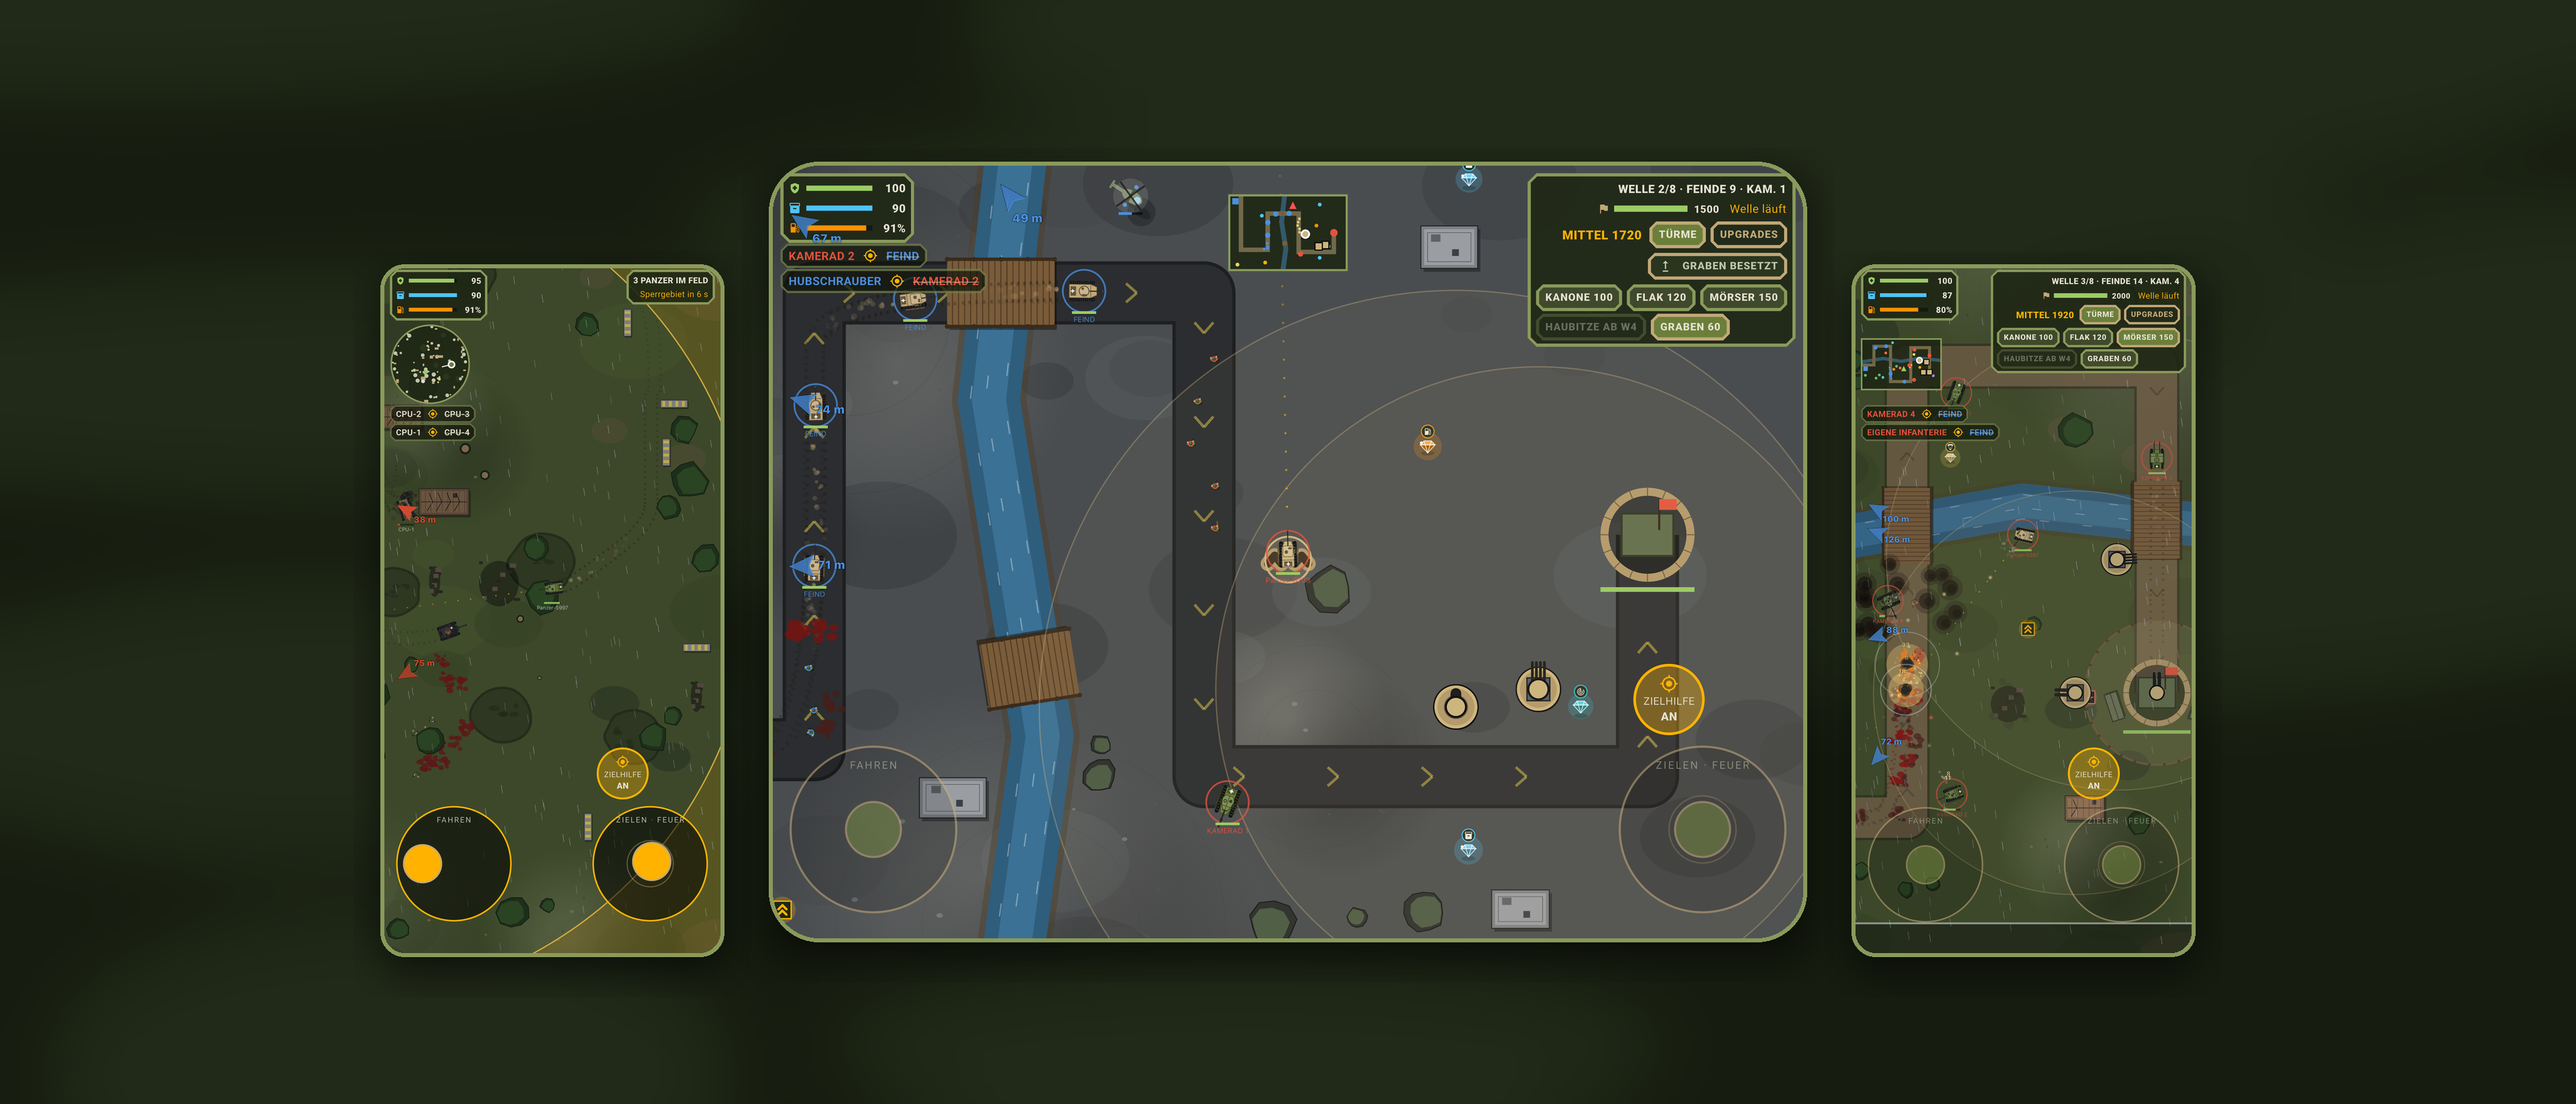
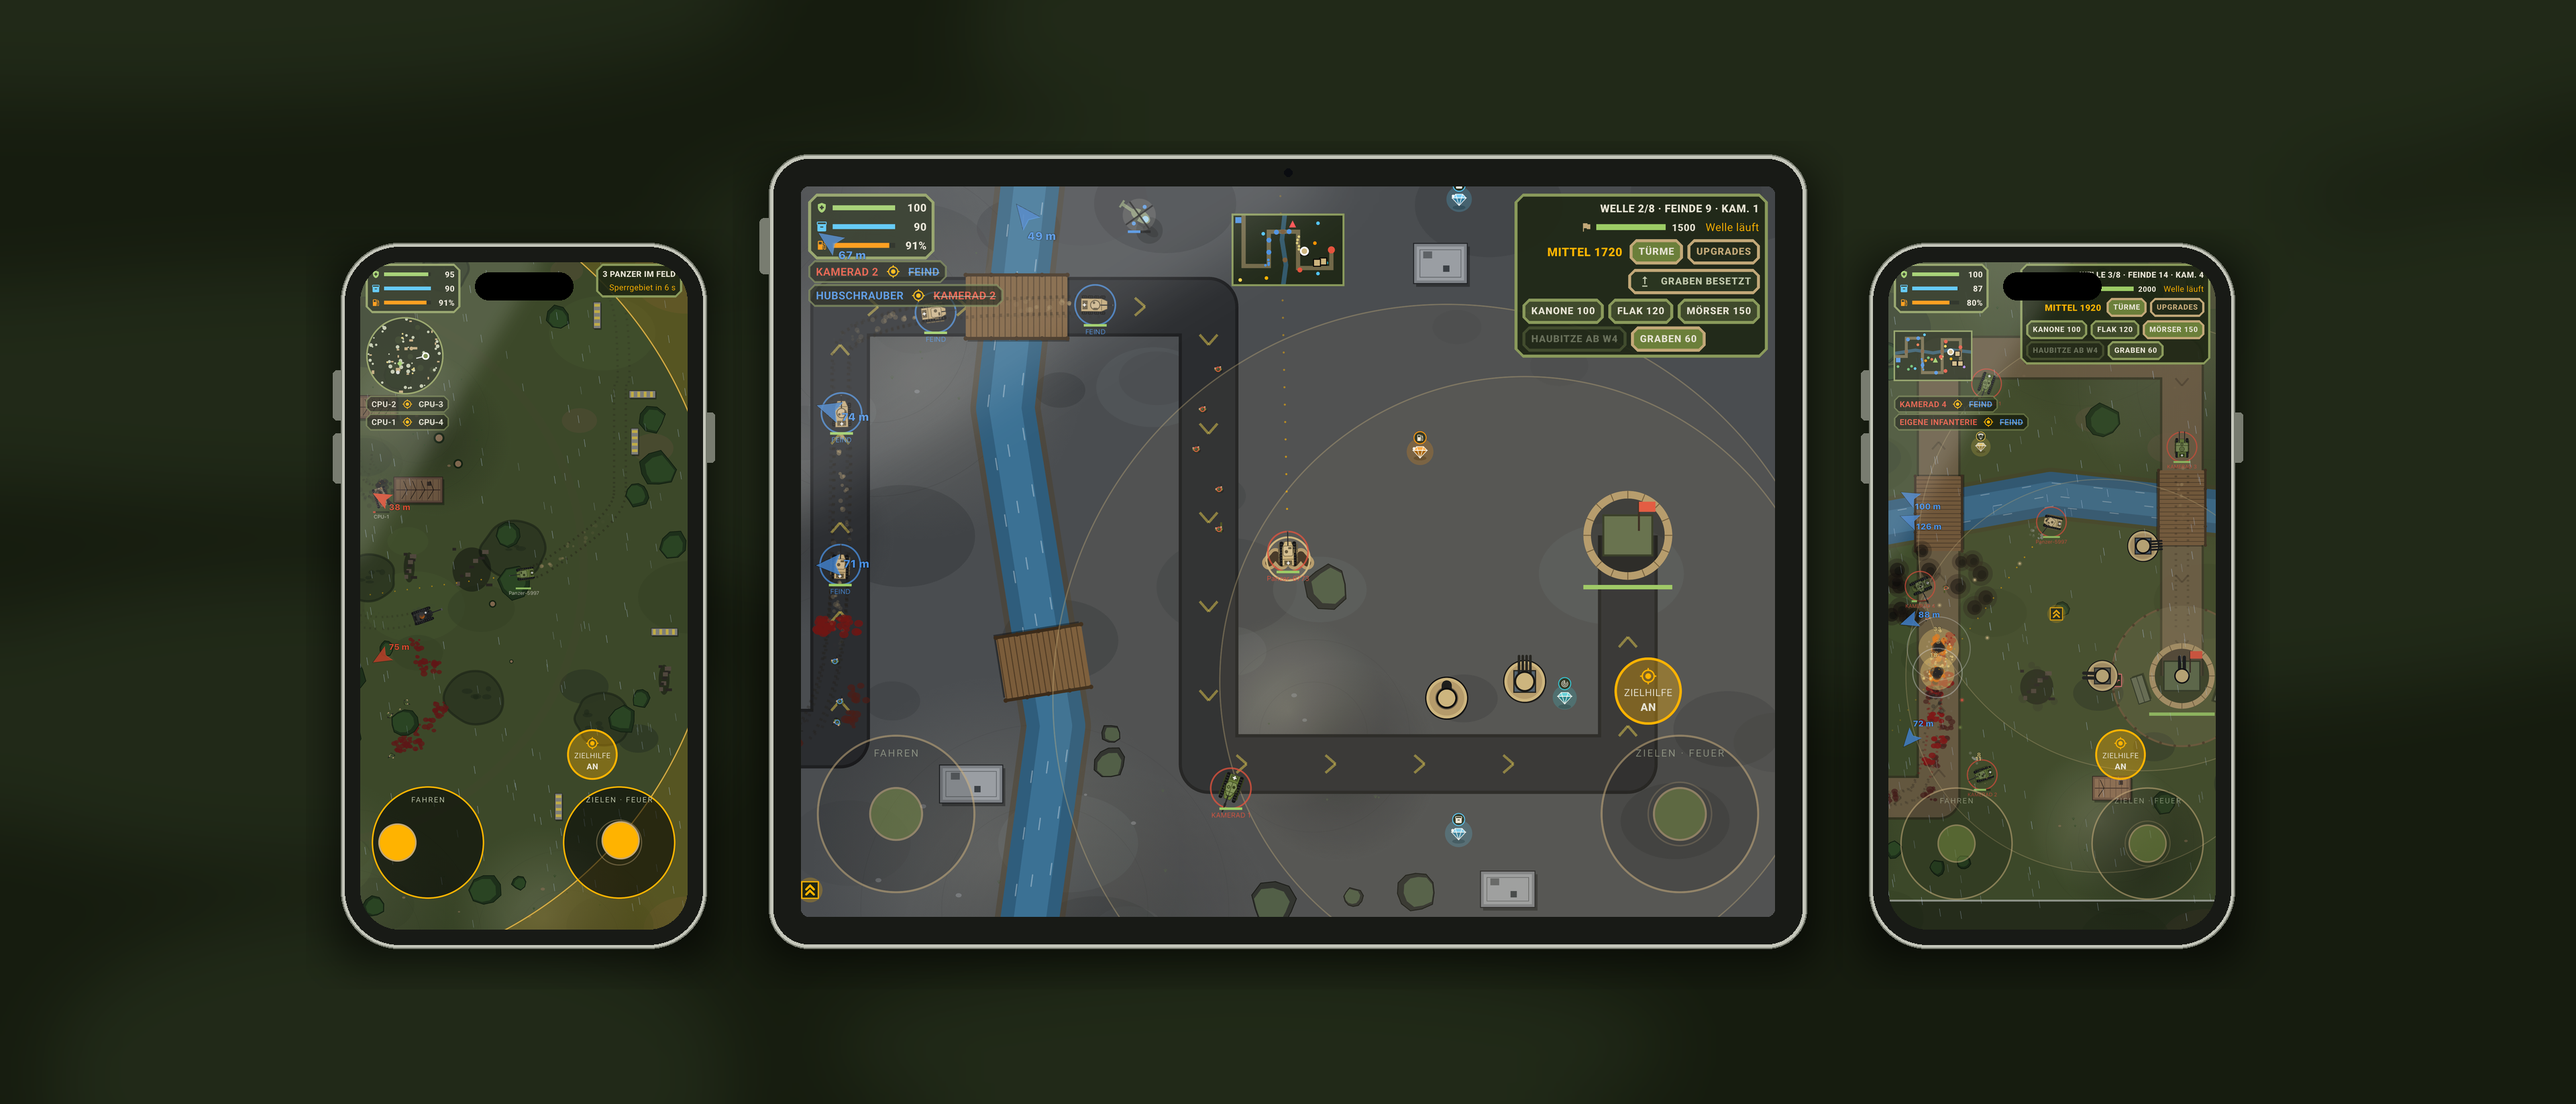
Show the devices in drawn frames on the App Store headers and add one for the search results
The search results header shows iPhone, iPad and watch side by side, so the
platforms show at a glance. The devices keep a wide margin, as the store
crops the header for smaller screens and lays the app's name over it.

diff --git a/store/tool/compose.py b/store/tool/compose.py
@@ -175,6 +175,114 @@ def frame(shot, height):
     return out
 
 
+BODY = (24, 26, 22)
+METAL = (120, 124, 112)
+METAL_LIGHT = (196, 198, 186)
+
+
+def device(shot, height, kind):
+    """Draws [shot] inside an illustrated [kind] ("phone", "tablet" or
+    "watch"): a dark body with a metal edge, its buttons and a soft gloss on
+    the glass, scaled so the whole device is [height] tall."""
+    bezel = {"phone": 0.022, "tablet": 0.035, "watch": 0.075}[kind]
+    rounding = {"phone": 0.16, "tablet": 0.05, "watch": 0.30}[kind]
+    rim = max(4, round(height * 0.006))
+    pad = round(height * bezel)
+    screen_h = height - 2 * (pad + rim)
+    screen_w = round(shot.width * screen_h / shot.height)
+    body_w, body_h = screen_w + 2 * (pad + rim), height
+    # Room beside the body for the buttons, above and below for the band.
+    knob = round(body_w * 0.05) if kind == "watch" else rim * 2
+    band = round(body_h * 0.18) if kind == "watch" else 0
+    out = Image.new("RGBA", (body_w + 2 * knob, body_h + 2 * band))
+    d = ImageDraw.Draw(out)
+    ox, oy = knob, band
+    radius = round(min(body_w, body_h) * rounding)
+
+    if kind == "watch":
+        # The band, fading out towards both ends.
+        bw = round(body_w * 0.62)
+        bx = ox + (body_w - bw) // 2
+        strap = Image.new("RGBA", out.size)
+        sd = ImageDraw.Draw(strap)
+        sd.rectangle((bx, 0, bx + bw, out.height), fill=(46, 52, 38))
+        for y in list(range(band // 4, band, max(8, band // 5))) + [
+                out.height - y for y in range(band // 4, band, max(8, band // 5))]:
+            sd.line((bx + bw * 0.2, y, bx + bw * 0.8, y), fill=(36, 41, 30),
+                    width=max(2, rim // 2))
+        fade = Image.new("L", (1, out.height))
+        for y in range(out.height):
+            edge = min(y, out.height - 1 - y)
+            fade.putpixel((0, y), min(255, round(255 * edge / band)))
+        fade = fade.resize(out.size)
+        strap.putalpha(Image.composite(fade, Image.new("L", out.size, 0),
+                                       strap.getchannel("A")))
+        out.alpha_composite(strap)
+        # Digital crown and side button.
+        cy = oy + round(body_h * 0.30)
+        ch = round(body_h * 0.16)
+        d.rounded_rectangle((ox + body_w - knob, cy, ox + body_w + knob, cy + ch),
+                            knob // 2, fill=METAL)
+        for i in range(1, 6):
+            yy = cy + ch * i // 6
+            d.line((ox + body_w + knob // 3, yy, ox + body_w + knob, yy),
+                   fill=METAL_LIGHT, width=max(2, rim // 2))
+        sy = cy + ch + round(body_h * 0.08)
+        d.rounded_rectangle(
+            (ox + body_w - knob, sy, ox + body_w + knob // 2,
+             sy + round(body_h * 0.22)), knob // 3, fill=METAL)
+    else:
+        # Volume and power buttons on the edges.
+        for x0, ys in (
+            (ox - knob, (0.18, 0.27) if kind == "phone" else (0.08,)),
+            (ox + body_w - knob // 2, (0.24,) if kind == "phone" else ()),
+        ):
+            for y in ys:
+                top = oy + round(body_h * y)
+                d.rounded_rectangle(
+                    (x0, top, x0 + knob * 3 // 2, top + round(body_h * 0.07)),
+                    knob // 2, fill=METAL)
+
+    # Body: metal rim with a lighter inner line, then the black bezel.
+    d.rounded_rectangle((ox, oy, ox + body_w - 1, oy + body_h - 1), radius,
+                        fill=METAL)
+    d.rounded_rectangle((ox + rim // 3, oy + rim // 3, ox + body_w - 1 - rim // 3,
+                         oy + body_h - 1 - rim // 3), radius - rim // 3,
+                        fill=METAL_LIGHT)
+    d.rounded_rectangle((ox + rim, oy + rim, ox + body_w - 1 - rim,
+                         oy + body_h - 1 - rim), radius - rim, fill=BODY)
+
+    screen = shot.convert("RGB").resize((screen_w, screen_h), Image.LANCZOS)
+    screen_radius = max(0, radius - rim - pad)
+    if kind == "watch":
+        screen_radius = round(min(screen_w, screen_h) * 0.22)
+    mask = Image.new("L", (screen_w, screen_h), 0)
+    ImageDraw.Draw(mask).rounded_rectangle(
+        (0, 0, screen_w - 1, screen_h - 1), screen_radius, fill=255)
+    sx, sy = ox + rim + pad, oy + rim + pad
+    out.paste(screen, (sx, sy), mask)
+
+    # Gloss: a faint light falling from the top left across the glass.
+    gloss = Image.new("L", (screen_w, screen_h), 0)
+    ImageDraw.Draw(gloss).polygon(
+        [(0, 0), (round(screen_w * 0.55), 0), (0, round(screen_h * 0.45))],
+        fill=34)
+    gloss = gloss.filter(ImageFilter.GaussianBlur(max(4, screen_w // 40)))
+    gloss = Image.composite(gloss, Image.new("L", gloss.size, 0), mask)
+    out.paste(Image.new("RGB", (screen_w, screen_h), (255, 255, 255)),
+              (sx, sy), gloss)
+
+    if kind == "phone":
+        iw, ih = round(screen_w * 0.30), round(screen_w * 0.085)
+        ix, iy = sx + (screen_w - iw) // 2, sy + round(screen_w * 0.03)
+        d.rounded_rectangle((ix, iy, ix + iw, iy + ih), ih // 2, fill=(0, 0, 0))
+    elif kind == "tablet":
+        r = max(3, pad // 6)
+        cx, cy = ox + body_w // 2, oy + rim + pad // 2
+        d.ellipse((cx - r, cy - r, cx + r, cy + r), fill=(10, 12, 16))
+    return out
+
+
 def compose(lang, out, raw, size, headline, subline, raw_dir):
     w, h = size
     portrait = h > w
@@ -228,29 +336,30 @@ def feature_graphic(lang):
 HEADERS = [(5244, 2950), (3840, 1646)]
 
 
-def header(lang, size, raw_dir):
-    w, h = size
-    canvas = backdrop(size, f"header-{w}")
+def load_shot(raw_dir, lang, name):
+    shot = Image.open(raw_dir / lang / f"{name}.png")
+    if name.startswith("i_"):
+        # The iPhone's status strip with the Dynamic Island, as in compose().
+        shot = shot.crop((0, round(shot.height * 0.062), shot.width, shot.height))
+    return shot
 
-    def load(name, crop_status):
-        shot = Image.open(raw_dir / lang / f"{name}.png")
-        if crop_status:
-            shot = shot.crop(
-                (0, round(shot.height * 0.062), shot.width, shot.height))
-        return shot
 
-    centre = frame(load("p_defense", False), round(h * 0.70))
-    side = round(h * 0.62)
-    left = frame(load("i_battle", True), side)
-    right = frame(load("i_guns", True), side)
+def row(canvas, framed, offsets):
+    """Lays [framed] side by side, centred, each moved down by its offset."""
+    w, h = canvas.size
     gap = round(h * 0.04)
-    total = left.width + centre.width + right.width + 2 * gap
+    total = sum(img.width for img in framed) + gap * (len(framed) - 1)
+    if total > w * 0.76:
+        # Too wide: shrink everything alike, so the store's crop for smaller
+        # screens and the name it lays over the art keep the devices whole.
+        scale = (w * 0.76 - gap * (len(framed) - 1)) / (total - gap * (len(framed) - 1))
+        framed = [img.resize((round(img.width * scale), round(img.height * scale)),
+                             Image.LANCZOS) for img in framed]
+        offsets = [round(o * scale) for o in offsets]
+        total = sum(img.width for img in framed) + gap * (len(framed) - 1)
     x = (w - total) // 2
-    for img, top in (
-        (left, (h - side) // 2 + round(h * 0.05)),
-        (centre, (h - centre.height) // 2),
-        (right, (h - side) // 2 + round(h * 0.05)),
-    ):
+    for img, offset in zip(framed, offsets):
+        top = (h - img.height) // 2 + offset
         shadow = Image.new("RGBA", (img.width + 80, img.height + 80))
         ImageDraw.Draw(shadow).rounded_rectangle(
             (40, 40, img.width + 40, img.height + 40), 40, fill=(0, 0, 0, 150))
@@ -258,7 +367,32 @@ def header(lang, size, raw_dir):
         canvas.paste(shadow, (x - 40, top - 20), shadow)
         canvas.paste(img, (x, top), img)
         x += img.width + gap
+
+
+def header(lang, size, raw_dir):
+    """The product page header: the iPad between two iPhones."""
+    w, h = size
+    canvas = backdrop(size, f"header-{w}")
+    side = round(h * 0.64)
+    row(canvas, [
+        device(load_shot(raw_dir, lang, "i_battle"), side, "phone"),
+        device(load_shot(raw_dir, lang, "p_defense"), round(h * 0.72), "tablet"),
+        device(load_shot(raw_dir, lang, "i_guns"), side, "phone"),
+    ], [round(h * 0.04), 0, round(h * 0.04)])
     save(canvas, ROOT / "store" / "ios" / "header" / lang / f"header-{w}x{h}")
+
+
+def search_header(lang, size, raw_dir):
+    """The header in the search results: iPhone, iPad and watch side by side,
+    to show at a glance on which devices the game runs."""
+    w, h = size
+    canvas = backdrop(size, f"search-{w}")
+    row(canvas, [
+        device(load_shot(raw_dir, lang, "i_battle"), round(h * 0.68), "phone"),
+        device(load_shot(raw_dir, lang, "p_defense"), round(h * 0.72), "tablet"),
+        device(load_shot(raw_dir, lang, "w_battle"), round(h * 0.40), "watch"),
+    ], [0, 0, 0])
+    save(canvas, ROOT / "store" / "ios" / "header" / lang / f"search-{w}x{h}")
 
 
 # Apple Watch shots go up as the simulator took them (422 x 514, Ultra 3 and
@@ -293,4 +427,5 @@ if __name__ == "__main__":
         feature_graphic(lang)
         for size in HEADERS:
             header(lang, size, source)
+            search_header(lang, size, source)
         watch(lang, source)

diff --git a/store/ios/README.md b/store/ios/README.md
@@ -22,7 +22,8 @@ in App Store Connect einfügen.
 | iPhone 6,3" (1206 × 2622), Pflichtfeld „iPhone mit Dynamic Island“ | `screenshots/<sprache>/iphone63-*.png` |
 | iPad 13" (2752 × 2064) | `screenshots/<sprache>/ipad-*.png` |
 | Apple Watch Ultra 4 (422 × 514), von Hand hochladen | `watch/<sprache>/watch-*.png` |
-| Kopfzeile (5244 × 2950 und 3840 × 1646), von Hand hochladen | `header/<sprache>/header-*.png` |
+| Kopfzeile, Tab „Kopfzeile“ (5244 × 2950 und 3840 × 1646), von Hand hochladen | `header/<sprache>/header-*.png`: iPad zwischen zwei iPhones |
+| Kopfzeile, Tab „Suchergebnisse“ (dieselben Größen), von Hand hochladen | `header/<sprache>/search-*.png`: iPhone, iPad und Watch nebeneinander |
 
 `<sprache>` ist `de-DE` oder `en-US`. Watch-Bilder und Kopfzeile liegen
 außerhalb von `screenshots/`, weil `fastlane deliver` diesen Ordner hochlädt
